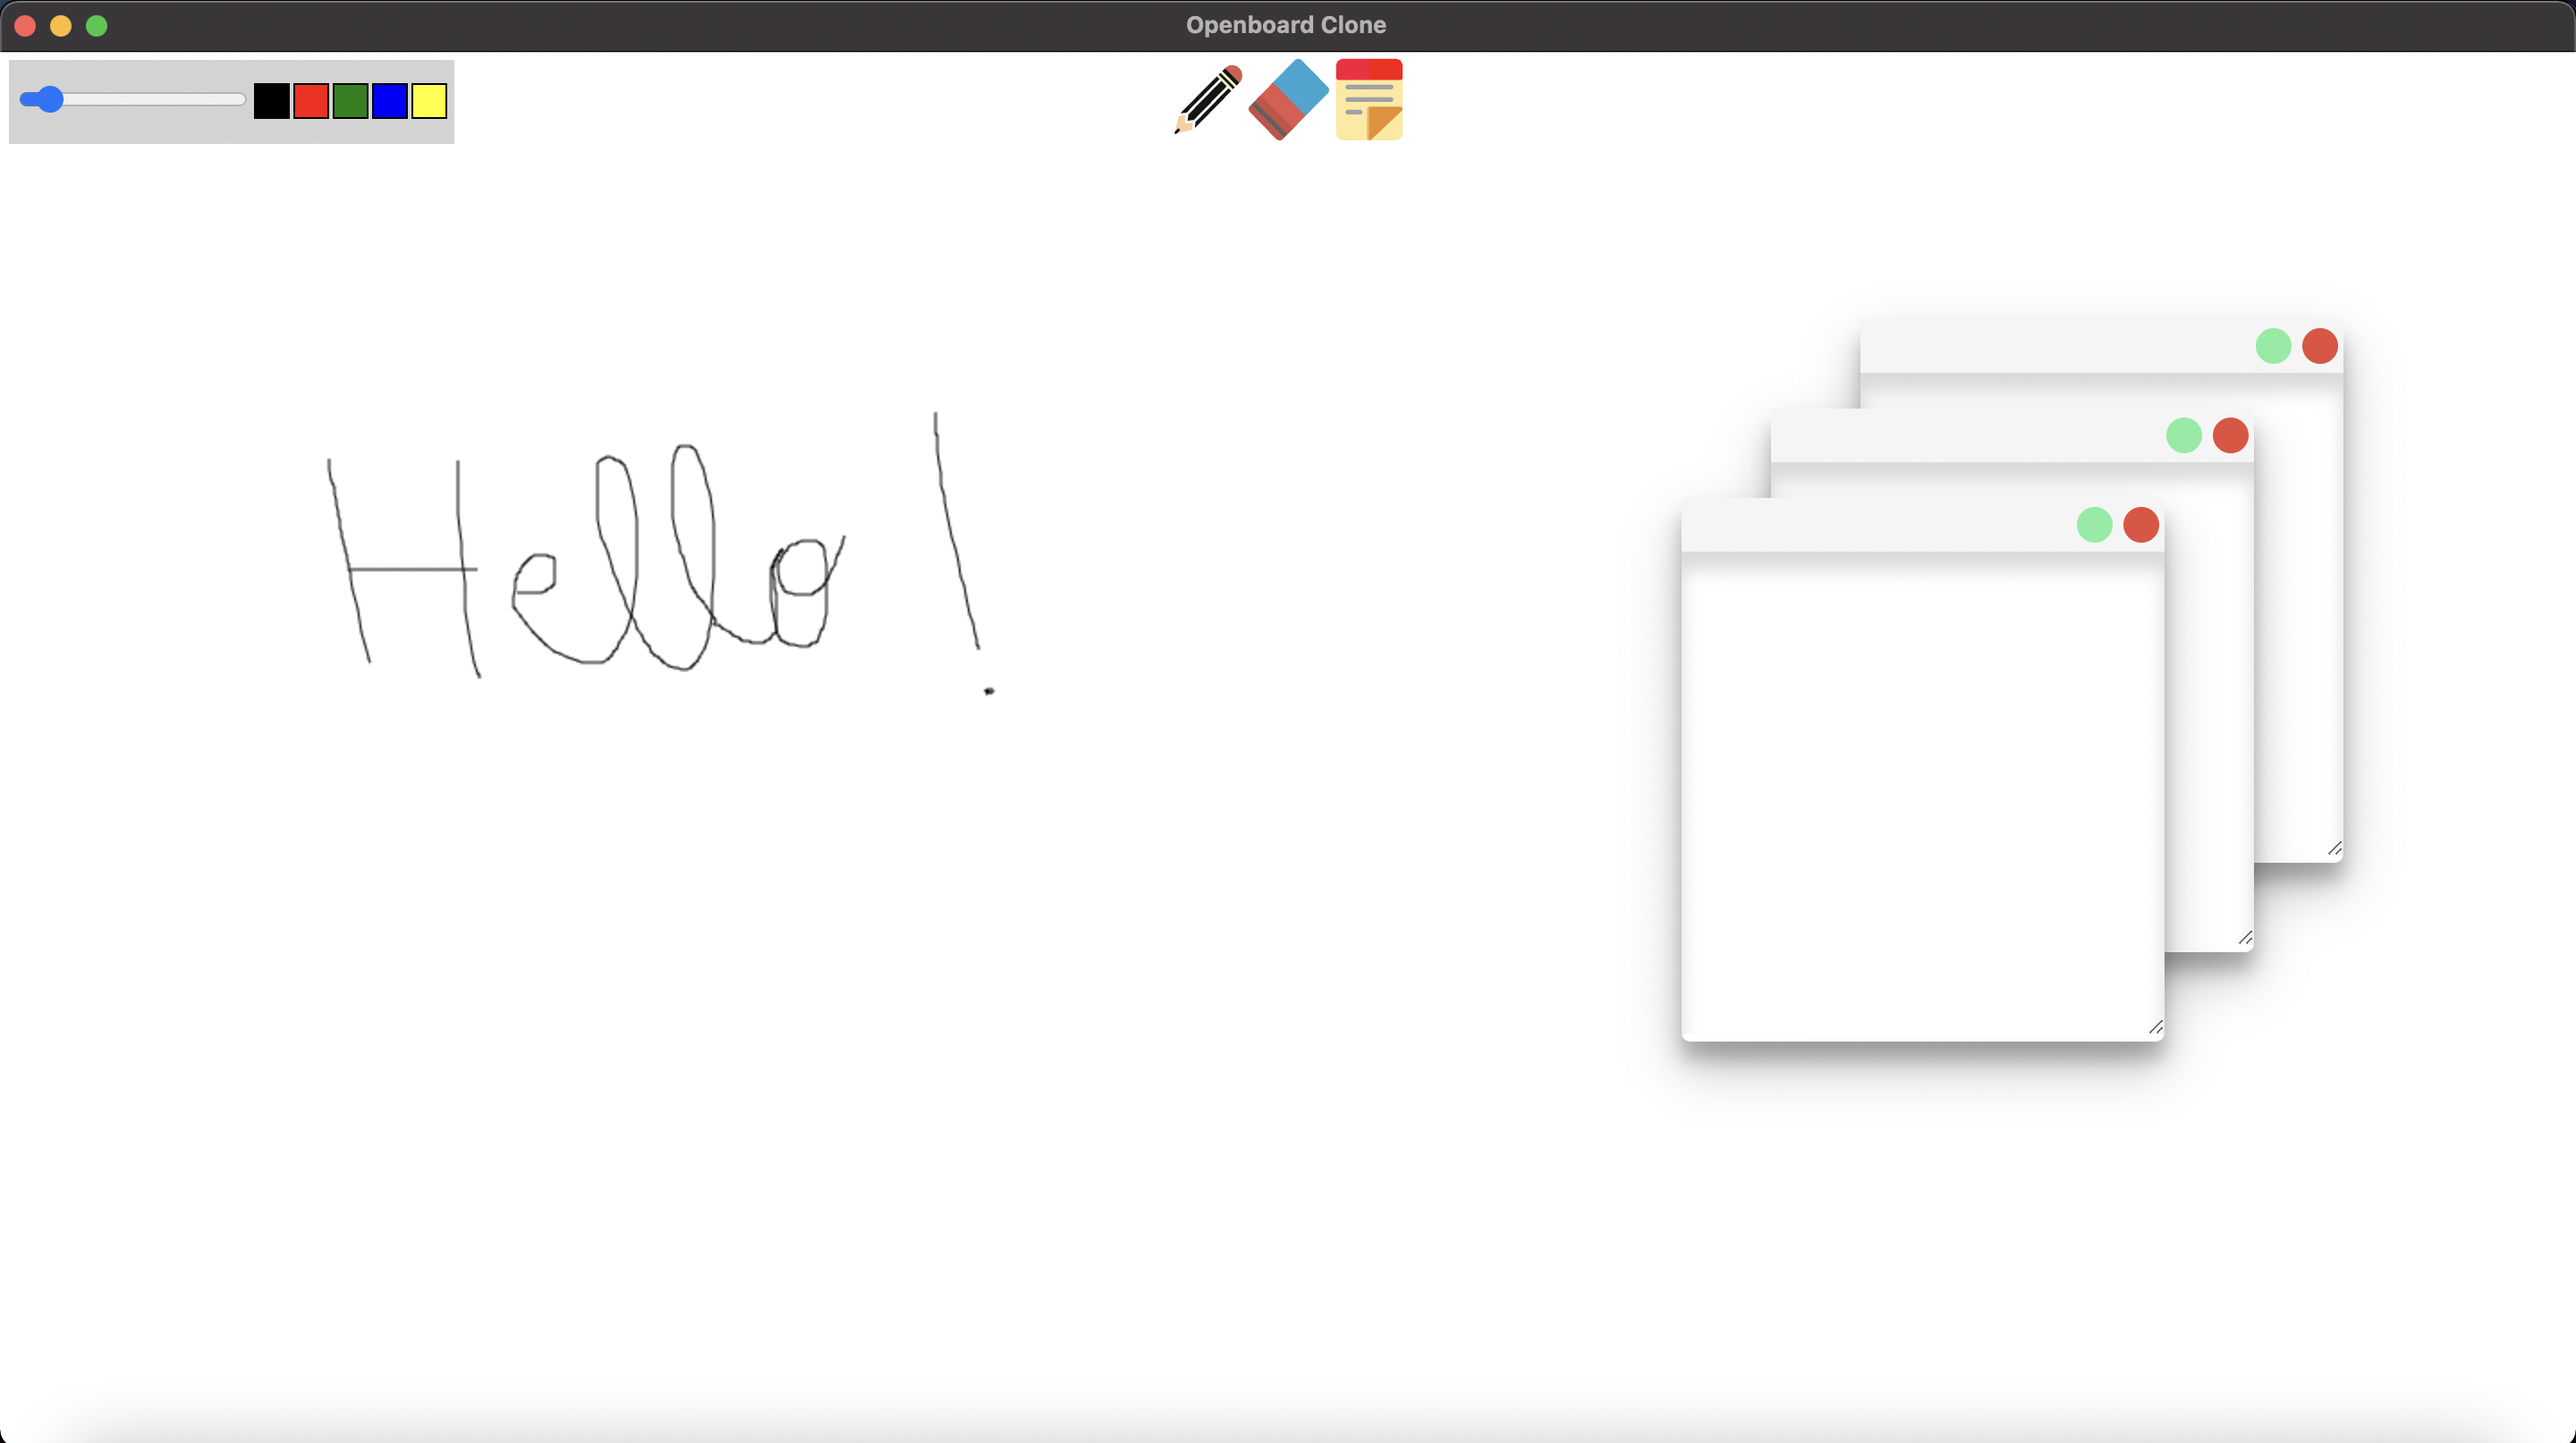
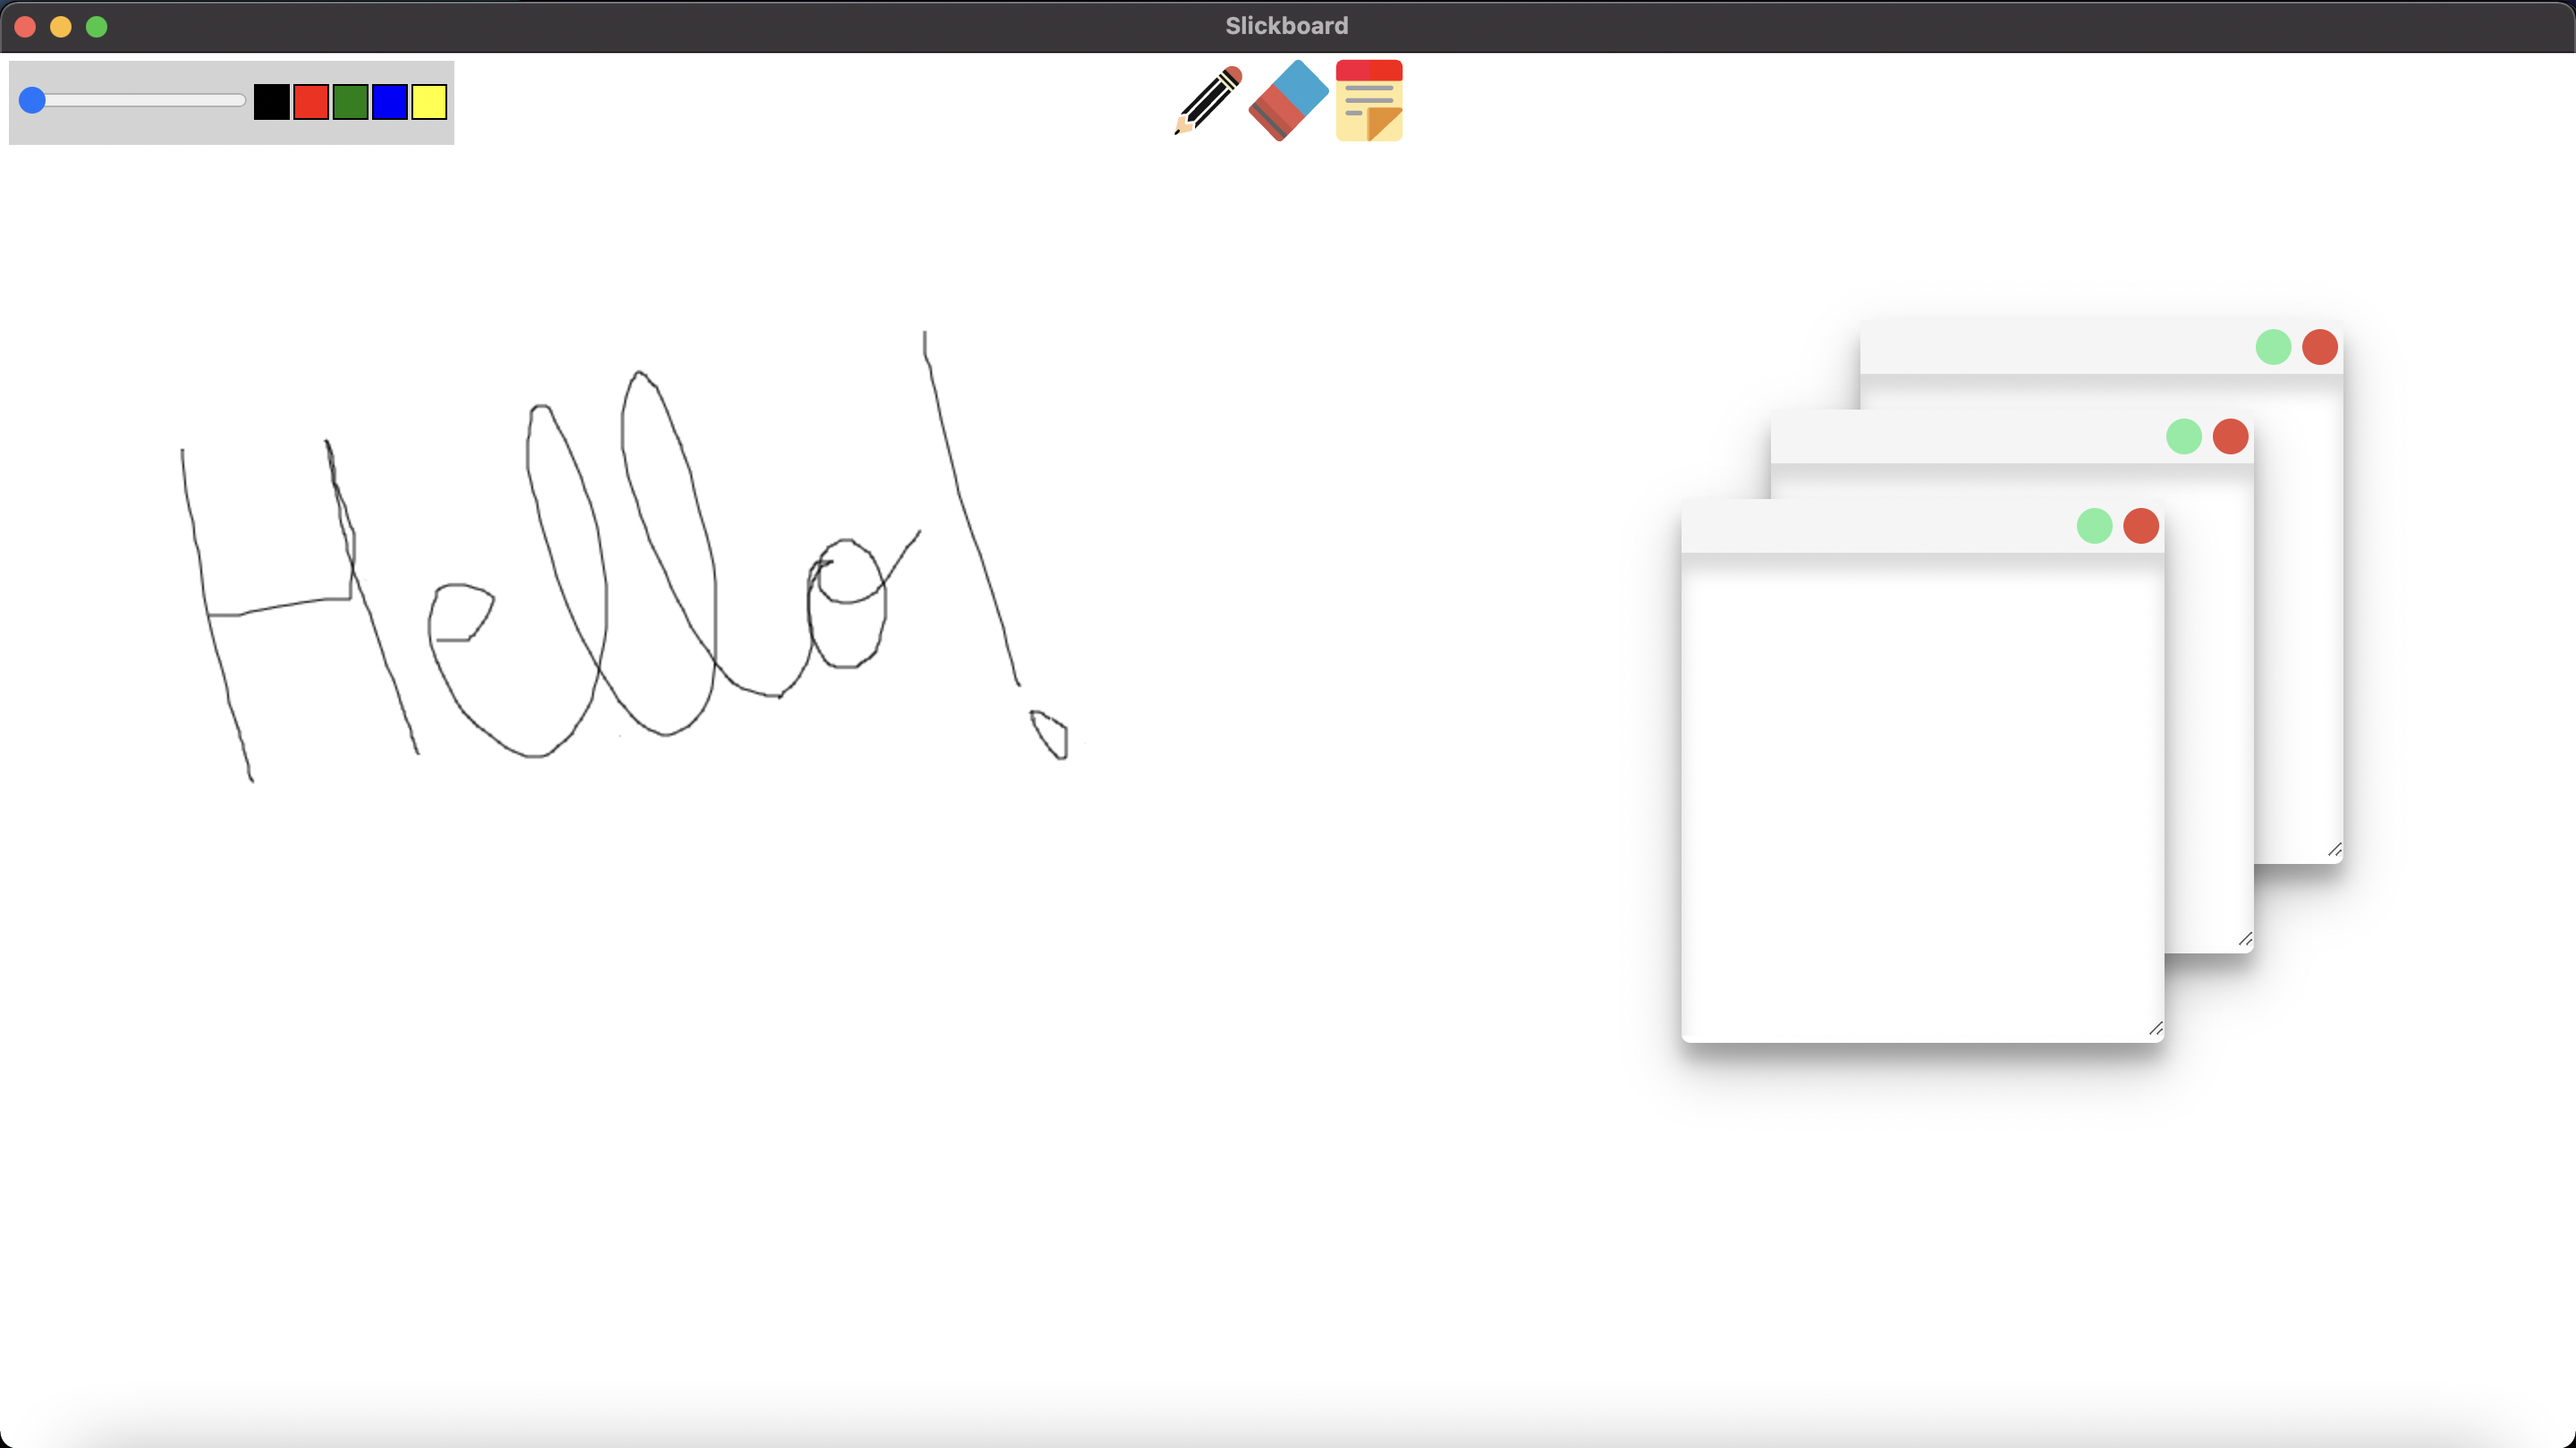
Update title

diff --git a/index.html b/index.html
@@ -1,7 +1,7 @@
 <!DOCTYPE html>
 <html>
     <head>
-        <title>Openboard Clone</title>
+        <title>Slickboard</title>
         <link rel="stylesheet" href="index.css"/>
     </head>
 
